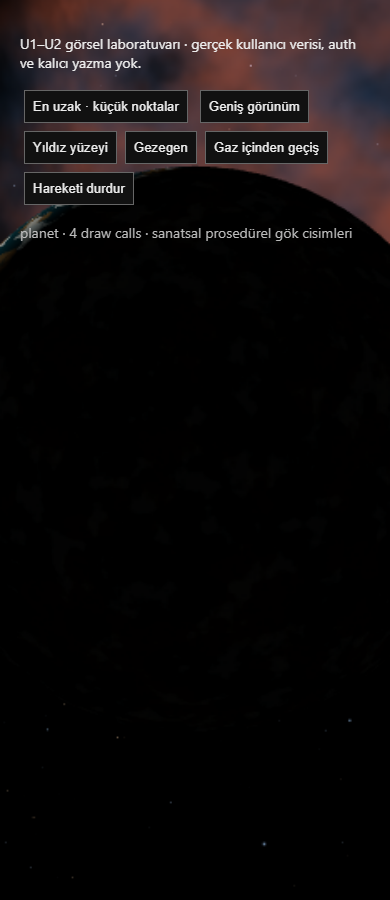
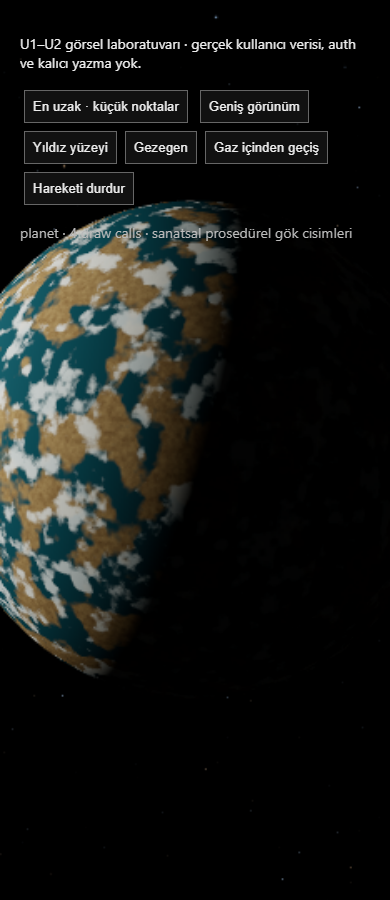
fix(universe): prioritize identity and UI over shader compilation

diff --git a/src/main.js b/src/main.js
@@ -50,13 +50,14 @@ let celestialSystem;
 let renderQuality;
 let catalogReady = false;
 let pendingGuestWrites = 0;
+let sceneWakeAt = 0;
 let experienceUI;
 let showcaseScene = null;
 const showcaseSlot = createSceneSlot();
 let experienceKey = '';
 const experience = createExperienceMode({ guestCount: universe.words.length, onChange: applyExperience });
 function syncRenderLoop() {
-  renderer?.setAnimationLoop(catalogReady && experience.snapshot().mode && !pendingGuestWrites && (!activePanel || activePanel === 'detail') ? animate : null);
+  renderer?.setAnimationLoop(catalogReady && experience.snapshot().ready && !pendingGuestWrites && (!activePanel || activePanel === 'detail') ? animate : null);
 }
 function applyExperience(state) {
   const app = $('#app');
@@ -68,6 +69,10 @@ function applyExperience(state) {
   const key = `${state.mode}:${state.ownerId}:${state.ready}`;
   if (key === experienceKey) return;
   experienceKey = key;
+  // Clear the previous identity immediately; allow rapid UI transitions to settle
+  // before compiling a scene that may already have been replaced.
+  renderer?.clear();
+  sceneWakeAt = performance.now() + 150;
   focusedStarId = selectedId = null;
   closePanels();
   celestialSystem?.home();
@@ -405,6 +410,8 @@ function rebuildWordStars() {
 const projected = new THREE.Vector3();
 function animate(ms) {
   if (document.hidden) { lastCameraMs = 0; return; }
+  if (document.querySelector('dialog[open]')) { lastCameraMs = 0; sceneWakeAt = performance.now() + 150; return; }
+  if (performance.now() < sceneWakeAt) return;
   if (!renderer) return;
   const fpsMonitor = $('#fps-monitor');
   if (!fpsMonitor.hidden) {

diff --git a/playwright.config.js b/playwright.config.js
@@ -3,7 +3,9 @@ import { defineConfig } from '@playwright/test';
 export default defineConfig({
   testDir: './e2e',
   // Bound parallel WebGL contexts and cold Vite transforms on shared desktops.
-  workers: 2,
+  // Hosted runners use software WebGL. One GPU-heavy browser at a time keeps
+  // storage/auth timing checks independent from another scene's shader compiler.
+  workers: process.env.CI ? 1 : 2,
   use: { baseURL: process.env.WORDVERSE_BASE_URL || 'http://127.0.0.1:5350', browserName: 'chromium' },
   webServer: process.env.WORDVERSE_BASE_URL
     ? undefined

diff --git a/docs/handoff/HANDOFF.md b/docs/handoff/HANDOFF.md
@@ -10,6 +10,8 @@
 - **En uzağa alındığında gök cisimleri küçük noktalar gibi görünür.** Yüzey, gaz ve galaksi ayrıntıları yaklaşıldıkça açılır; büyük diskler ve parlamalar uzak sahneyi kaplamaz.
 - Yeni demo yıldız/gezegen katmanında ekran boyutuna göre 2–7 CSS piksel arasında yumuşak küre/nokta geçişi uygulandı. En uzakta yıldız yaklaşık 2.2, gezegen 1.8 CSS piksel. Diğer katalog katmanları ve kullanıcı yıldızlarına aynı politikanın adaptasyonu U2–U4 içinde açık.
 
+- **Mouse kontrolü:** Mouse tekerleği / trackpad kaydırması yakınlaşma ve uzaklaşma kontrolüdür; mouse sürükleme yön/pan kontrolüdür. Mevcut temel wheel zoom korunur, U3 kesintisiz kamera ve projected-size geçişleri ile tamamlanır. UI form/scroll alanları kaydırılırken evren zoomu tetiklenmemeli; reduced-motion ve touch pinch ayrı kabul edilir.
+
 ### Bu checkpoint'in somut geliştirmeleri
 
 - U1: `showcase-demo`, gerçek hesap `personal` ve korunmuş misafir `guest-personal` sahne politikası. İlk oturum çözülmeden demo gösterilmez. Hesap verisi gelmeden sahte hesap sayısı gösterilmez; depolama hatasında açık misafir tercihi çalışır.
@@ -21,11 +23,11 @@
 
 ### Doğrulama ve sonraki iş
 
-105 birim testi geçti. İlk tam tarayıcı turunda 70/71 geçti; ilk kimlik çözülürken erken form tıklaması düzeltildi ve ilgili senaryo 3/3 tekrar geçti. Son tam 71 test turu ve güncel build sürüyor; son sonucu aşağıdaki oturum kaydında güncelle. Önceki e75ecca uzak CI 37146273133: 57 geçti / 9 başarısız; bunu yeni sonuçla karıştırma.
+**8dd7be1 kod checkpoint'i GitHub'a gönderildi.** Son yerel kontrol: 105 unit, 71/71 e2e (iki worker, 5.1 dakika), lint, typecheck, build ve format geçti. Test timeout/assertion gevşetilmedi. İlk turlardaki panel/IDB/cold SDK gecikmeleri düzeltildi. Vercel PR önizlemesi SUCCESS. Remote CI `37157710980` henüz sürüyor; sonucu oturum kaydı / STATE içinde güncelle. Önceki e75ecca remote CI 57/9 başarısız sonucu tarihsel başlangıçtır.
 
 U0 kanıtı: dört yerel referans görseli incelendi, altı sentetik önceki görünüm kaydedildi. `REFERENCE_ANALYSIS.md`, `VISUAL_DIRECTION.md`, `UPGRADE_ACCEPTANCE.md` ve `STATE.json.upgrade` güncel kaynaklardır. `scripts/capture-upgrade-evidence.mjs` aynı üretim modülleriyle 1440/768/390 genişlikte beş donmuş açı üretir. Kullanıcı verisi çekilmez.
 
-**Sonraki somut sıra:** tam gate ve manuel sahne incelemesi → U2 gaz filamentleri/toz/ışık sönümleme, yakın yıldız/gezegen kalite iterasyonu ve bloom → U3 kesintisiz kamera → U4 kalıcı merkez ve gerçek kayıt adapterleri. U1/U2 final kalite veya kullanıcı kabulü tamamlandı olarak işaretlenmedi.
+**Sonraki somut sıra:** tam gate ve manuel sahne incelemesi → U2 gaz filamentleri/toz/ışık sönümleme, yakın yıldız/gezegen kalite iterasyonu ve bloom → U3 kesintisiz kamera → U4 kalıcı merkez ve gerçek kayıt adapterleri. U1 otomatik entegrasyon doğrulandı; U2 final kalite ve kullanıcı kabulü henüz tamamlanmadı. U2 üzerinde çalışmaya devam et.
 
 ---
 
@@ -79,3 +81,9 @@ Türkçe ve otonom ilerle. Durum Analiz = güncel | Durum | İş | Sonuç / kala
 Misafir13tarihsel kayıt/v4-v3-v2 arşivleri ve hesap owner depoları korunur. Env/sır/tarayıcı verisi Git'e girmez. Yalnız Supabase **mrkmtcpzyvooreeokmkp**; uygulanan20261002181057/20261003064254/20261003123923 migrations. CLI/MCP yanlış hesap olabilir; kör dbpush/historyrepair/storage.protect_delete bypass yok. SMTP/hukuk/gerçekStorageAPI/Mac/prodauth ertelendi; ücretli plan veya tekrar kurulum sorusu açma.
 
 Gerçek Mac/iki cihaz,mail/prodStorage,hukukiuyum,tam backuprestore,FSRS,50olay türü,5000kullanıcı yıldızıFPS,PWA/WebGLfallback ve bütün Faz4 henüz tamamlanmadı. Ayrıntılı bütün proje rehberi CLAUDE_BRIEF.md; tarihsel kayıtlar diğer handoff/session dosyalarında.
+
+## Remote CI farkı ve düzeltme
+
+37157710980: 105 unit geçti, fakat 65 e2e geçti / 6 başarısız (3 hesap, 3 demo tekrar geçişi). Yerel 71/71, remote geçiş sayılmaz. Dialog açıkken ve owner content-ready değilken GPU çizimi durduruldu; önceki kimlik karesi anında temizlenir. Yeni sahne çizimi 150ms sakin UI aralığını bekler, hızlı tekrar geçişler eski shaderları derlemeye zorlamaz. Hosted software WebGL üzerinde CI tek worker, yerelde iki worker. Test timeoutları ve 10 tekrar senaryosu korunur. Düzeltmenin hedefli gate / sonraki remote sonucu takip edilir.
+
+Düzeltme sonrası iki yerel worker ile hesap + deneyim hedefli gate **16/16 geçti (52 saniye)**. On tekrar ve bekleme süreleri aynen korundu; lint geçti. Yeni remote tam gate, push sonrası ayrıca doğrulanacak.

diff --git a/docs/handoff/UPGRADE_ACCEPTANCE.md b/docs/handoff/UPGRADE_ACCEPTANCE.md
@@ -30,3 +30,13 @@ Başlangıçe75ecca uzakCI37146273133:57pass/9fail (6accountsync,3desktopnebula)
 Yeni demo yıldız/gezegeninde 2–7 CSS piksel projected-size yumuşak geçiş; en uzakta yaklaşık 2.2/1.8 CSS piksel noktalar. 105 unit geçti; 15 sentetik donmuş görünüm ve Chrome manuel uzak görünüm kanıtı evidence/upgrade altında. Yakın yıldız yüzeyi küresel/granüllü; gaz içi görünüm hâlâ düşük kontrastlı ve yumuşak, final kalite açık. Gezegen ilk bakışta çoğunlukla gece yüzü gösteriyordu; fixture bakışı aydınlık yarımküreye değiştirildi.
 
 Son ön turlar 70/71 ve 29/30: SDK cold init / IDB gecikmesi. SDK prebundle ve kalıcı yazma sırasında GPU pause düzeltmesinden sonraki tam 71 test turu çalışıyor. Bu sonuçlar tam geçiş veya kullanıcı estetik kabulü olarak gösterilmez.
+
+## Son doğrulama
+
+8dd7be1: 105 unit / 71 e2e / lint / typecheck / build / format yerelde geçti. Vercel preview başarılı; remote CI 37157710980 çalışıyor. U1 otomatik entegrasyon doğrulandı, U2 kalite çalışması devam ediyor. 15 donmuş açı güncel source hashleriyle yeniden çekildi. Kayıtlar korunur; kullanıcı estetik kabulü hâlâ yok.
+
+## Remote CI farkı ve düzeltme
+
+37157710980: 105 unit geçti, fakat 65 e2e geçti / 6 başarısız (3 hesap, 3 demo tekrar geçişi). Yerel 71/71, remote geçiş sayılmaz. Dialog açıkken ve owner content-ready değilken GPU çizimi durduruldu; önceki kimlik karesi anında temizlenir. Yeni sahne çizimi 150ms sakin UI aralığını bekler, hızlı tekrar geçişler eski shaderları derlemeye zorlamaz. Hosted software WebGL üzerinde CI tek worker, yerelde iki worker. Test timeoutları ve 10 tekrar senaryosu korunur. Düzeltmenin hedefli gate / sonraki remote sonucu takip edilir.
+
+Düzeltme sonrası iki yerel worker ile hesap + deneyim hedefli gate **16/16 geçti (52 saniye)**. On tekrar ve bekleme süreleri aynen korundu; lint geçti. Yeni remote tam gate, push sonrası ayrıca doğrulanacak.

diff --git a/docs/handoff/WORDVERSE_MASTER_UPGRADE.md b/docs/handoff/WORDVERSE_MASTER_UPGRADE.md
@@ -10,6 +10,8 @@
 - Ana hareket/gaz uçuşu referansı **X videosunun sağ paneli**: https://x.com/ITangieff/status/2106060890407915571, 00:10–00:15. Kullanıcı açıkça doğruladı. Sf4oFaelTr4 gezegen videosu ikincil yüzey/terminator referansıdır; aşağıdaki eski “R5 primary / right-side” yorumu bu son karar tarafından değiştirilmiştir.
 - **En uzak görünümde gök cisimleri küçük ışık noktaları gibi görünür.** Yaklaşınca yüzey, gaz ve morfoloji açılır. Uzakta büyük halo/şekil galerisi yok; OLED siyah korunur. Detaylı galaksi şekillerinin en uzakta gizli olması sürer. Bu LOD kabulü U2/U3 içinde ölçülür, mevcut uygulama tamamladı sayılmaz.
 
+- **Mouse kaydırma kontrolü (son kullanıcı teyidi):** Mouse tekerleği / trackpad kaydırması yakınlaşma ve uzaklaşma kontrolüdür; mouse sürükleme yön/pan kontrolüdür. Mevcut temel wheel zoom korunur, U3 kesintisiz kamera ve projected-size geçişleri ile tamamlanır. UI form/scroll alanları kaydırılırken evren zoomu tetiklenmemeli; reduced-motion ve touch pinch ayrı kabul edilir.
+
 ## Kullanım — önce bunu oku
 
 Bu dosyayı mevcut proje klasörüne, `docs/handoff/WORDVERSE_MASTER_UPGRADE.md` yoluna koy. Codex veya Claude CLI'ı mevcut repo içinde aç; aşağıdaki başlangıç mesajını ver. Eski başlangıç promptunu bununla birlikte ayrı bir aktif görev olarak verme; bu belge yeni yükseltme görevidir.

diff --git a/docs/handoff/TASKS.md b/docs/handoff/TASKS.md
@@ -147,3 +147,9 @@ WORDVERSE_MASTER_UPGRADE aktif görsel sözleşme; eski görsel plan yerine uygu
 - [ ] U7 özgünWebAudio/gesture/mixer/lifecycle.
 - [ ] U8 ≥50fenomen/5000kayıt/performance/fallback.
 - [ ] U9 entegrasyon/kabul/devir;main/prod/tag erken yok.
+
+- [x] U1 otomatik entegrasyon checkpoint 8dd7be1: 105 unit, 71 e2e, lint/typecheck/build/format; demo/guest raw storage ayrımı ve owner geçiş regresyonları geçti.
+- [x] Yeni demo yıldız/gezegeninde uzak küçük nokta LOD ve Chrome manuel kanıtı; 1440/768/390 sentetik açıların güncel yeniden çekimi.
+- [~] U2 yakın yüzey/gaz/selective bloom; 390 yakın çekim kadrajı, gaz içi düşük kontrast ve patchy planet terrain kalite kabulü açık.
+
+- [ ] U3 mouse wheel/trackpad zoom + drag pan: kesintisiz kamera, küçük nokta/detay geçişi, UI scroll çakışma koruması ve reduced-motion/touch kabulü. Kullanıcı mouse kaydırmayı ayrıca teyit etti.
